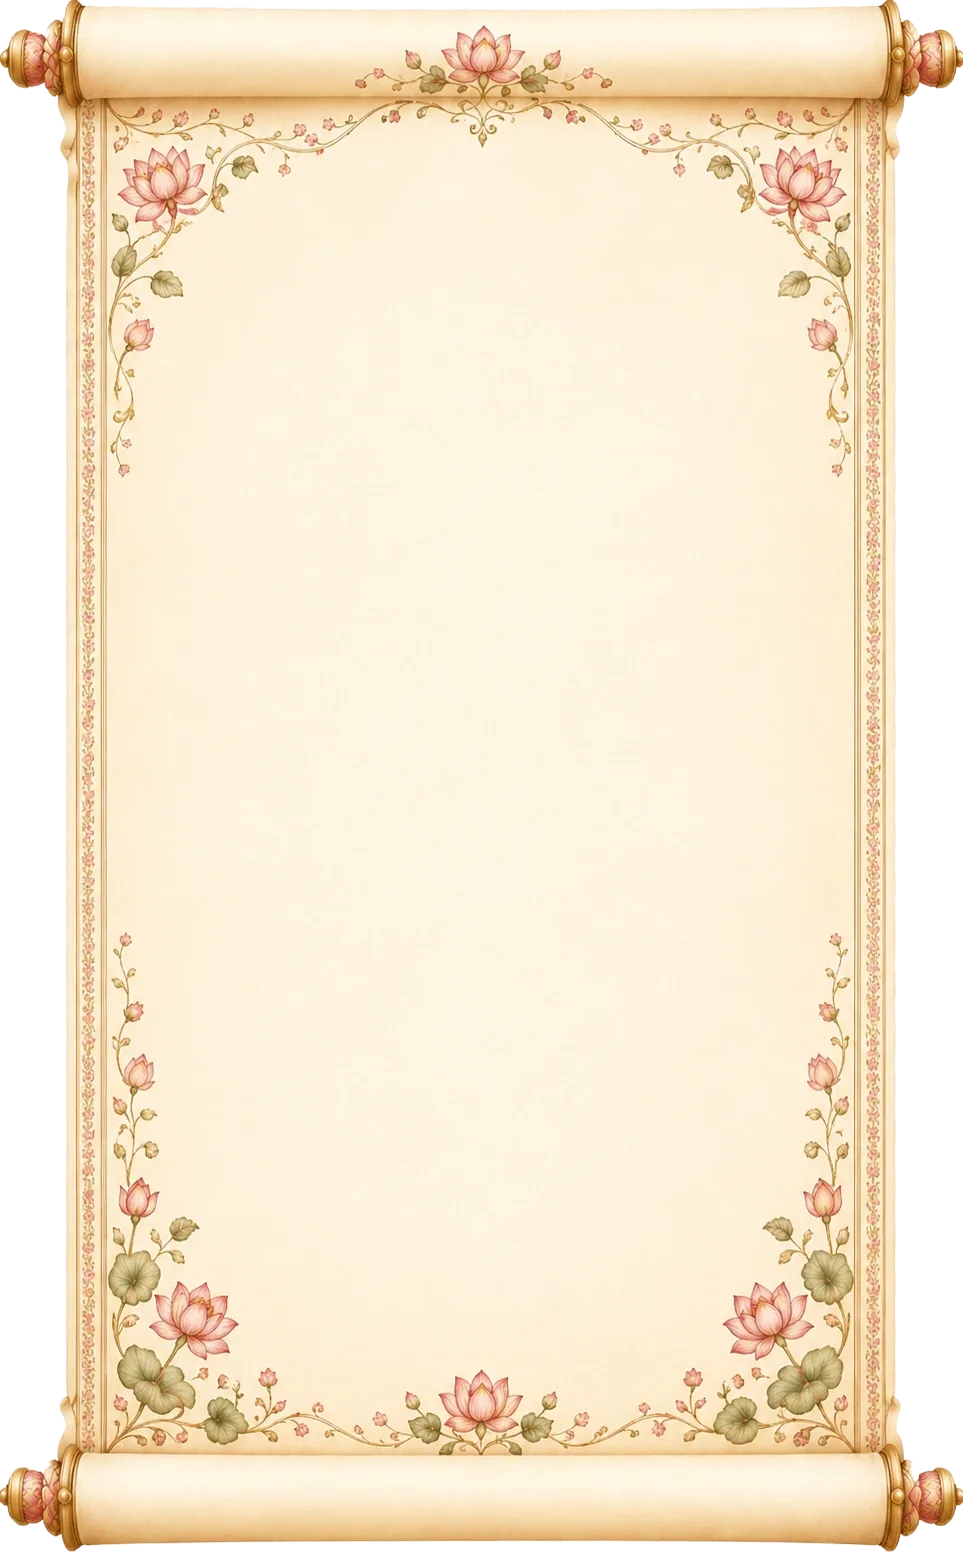
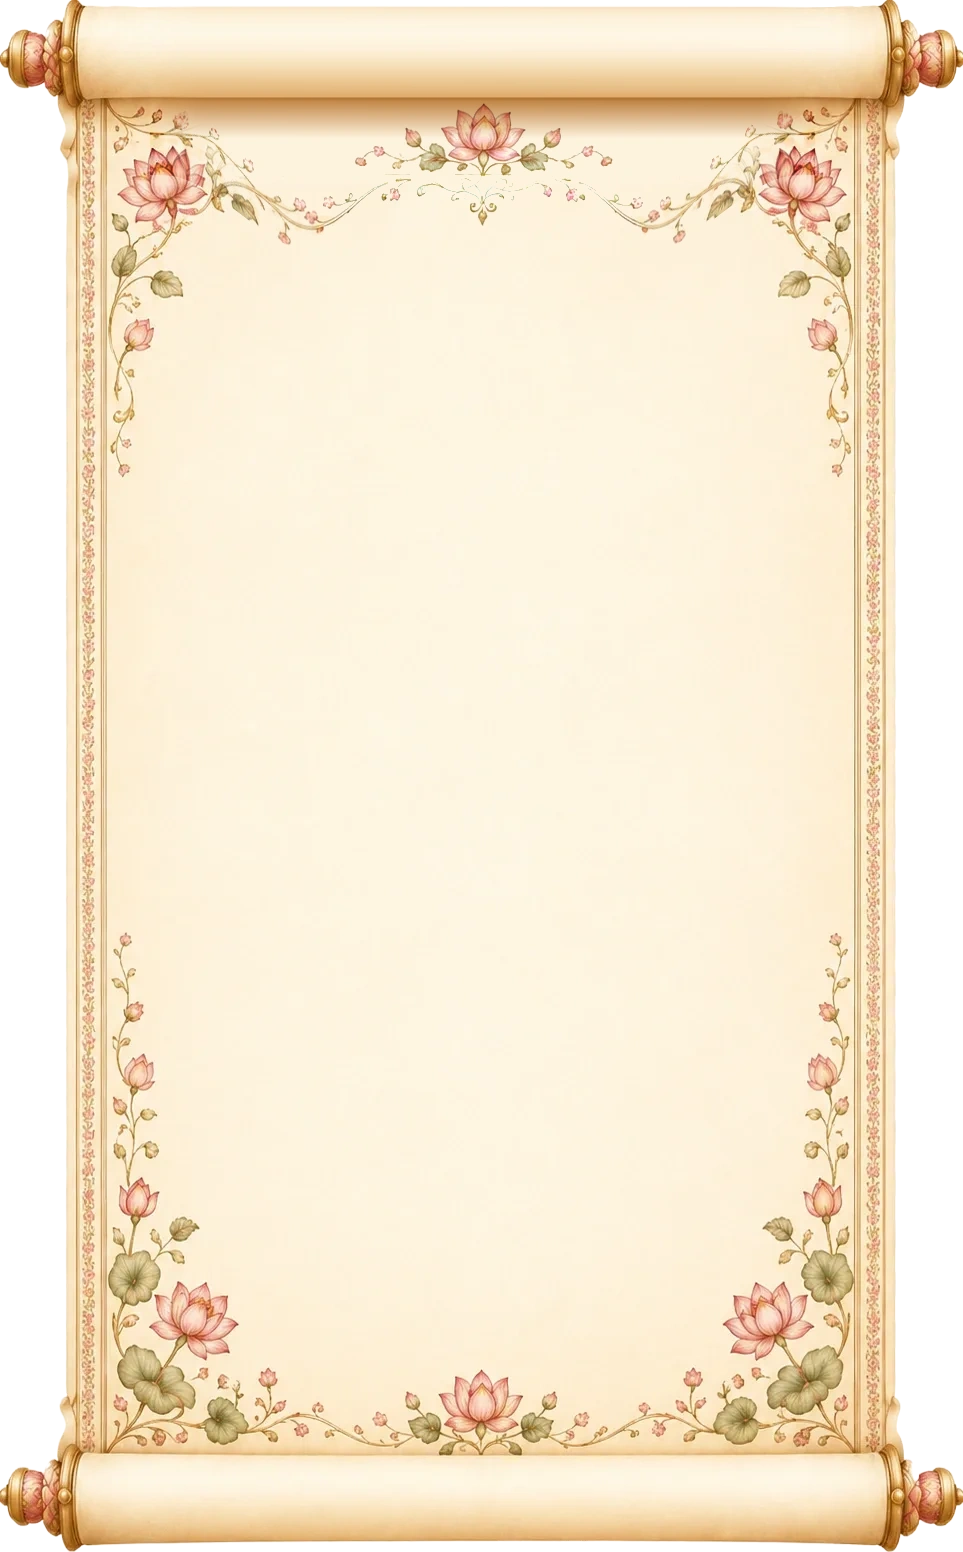
Update scratch card: unify date font size with lining numerals, enlarge venue, and update header to date and venue

Changed region(s): [[0.1558, 0.0, 0.8411, 0.1546]]

diff --git a/style.css b/style.css
@@ -90,17 +90,18 @@ body:not(.intro-active) .intro-monogram-logo {
 
 .scratch-title {
   font-family: 'Cormorant Garamond', 'Playfair Display', serif !important;
-  font-size: clamp(24px, 5.5vw, 34px) !important;
+  font-size: clamp(22px, 5.2vw, 32px) !important;
   font-weight: 700 !important;
   color: #3B1704 !important;
   letter-spacing: 1px !important;
+  line-height: 1.25 !important;
   text-shadow: 0 1px 3px rgba(255, 255, 255, 0.8), 0 0 12px rgba(255, 240, 200, 0.9) !important;
 }
 
 .scratch-card-wrapper {
   position: relative;
-  width: min(92vw, 340px);
-  height: 180px;
+  width: min(92vw, 350px);
+  height: 190px;
   border-radius: 12px;
   overflow: visible !important;
   box-shadow: 0 10px 35px rgba(0, 0, 0, 0.8), 0 0 25px rgba(216, 169, 87, 0.35);
@@ -162,11 +163,14 @@ body:not(.intro-active) .intro-monogram-logo {
 }
 
 .reveal-date {
-  font-family: 'Cormorant Garamond', 'Playfair Display', serif !important;
-  font-size: clamp(21px, 5.5vw, 25px) !important;
+  font-family: 'Cinzel', 'Playfair Display', serif !important;
+  font-size: clamp(20px, 5.2vw, 25px) !important;
   font-weight: 700 !important;
   color: #FFF3CC !important;
   letter-spacing: 2px !important;
+  text-transform: uppercase !important;
+  font-variant-numeric: lining-nums proportional-nums !important;
+  font-feature-settings: "lnum" 1 !important;
   text-shadow: 0 0 14px rgba(243, 229, 171, 0.7), 0 2px 6px rgba(0, 0, 0, 0.9) !important;
   line-height: 1.2 !important;
   margin: 0 !important;
@@ -186,15 +190,15 @@ body:not(.intro-active) .intro-monogram-logo {
 
 .reveal-venue {
   font-family: 'Cormorant Garamond', 'EB Garamond', 'Playfair Display', serif !important;
-  font-size: clamp(14px, 3.8vw, 17px) !important;
-  font-weight: 600 !important;
+  font-size: clamp(17px, 4.8vw, 21px) !important;
+  font-weight: 700 !important;
   font-style: italic !important;
   color: #FFF3CC !important;
   letter-spacing: 0.8px !important;
   text-shadow: 0 0 12px rgba(245, 206, 118, 0.6), 0 1px 5px rgba(0, 0, 0, 0.9) !important;
   line-height: 1.3 !important;
   white-space: nowrap !important;
-  margin: 0 !important;
+  margin: 2px 0 0 !important;
 }
 
 .scratch-canvas {

diff --git a/index.html b/index.html
@@ -229,12 +229,12 @@
     <!-- SCRATCH CARD FEATURE -->
     <section class="section custom-scratch-section" id="scratchCardSection">
       <div class="scratch-header">
-        <h2 class="scratch-title">Scratch to Reveal Wedding Date</h2>
+        <h2 class="scratch-title">Scratch to Reveal Wedding Date and Venue</h2>
       </div>
 
       <div class="scratch-card-wrapper" style="background-image: url('assets/scratch_card/pn-scratch-reveal-bg-v01.jpg'); background-size: cover; background-position: center;">
         <div class="scratch-reveal" style="background-image: url('assets/scratch_card/pn-scratch-reveal-bg-v01.jpg'); background-size: cover; background-position: center;">
-          <strong class="reveal-date">15 . JANUARY . 2027</strong>
+          <strong class="reveal-date">15 January, 2027</strong>
           <span class="reveal-day">Friday</span>
           <span class="reveal-venue">Venue: Shree Jee Vilas, Murthal</span>
         </div>
